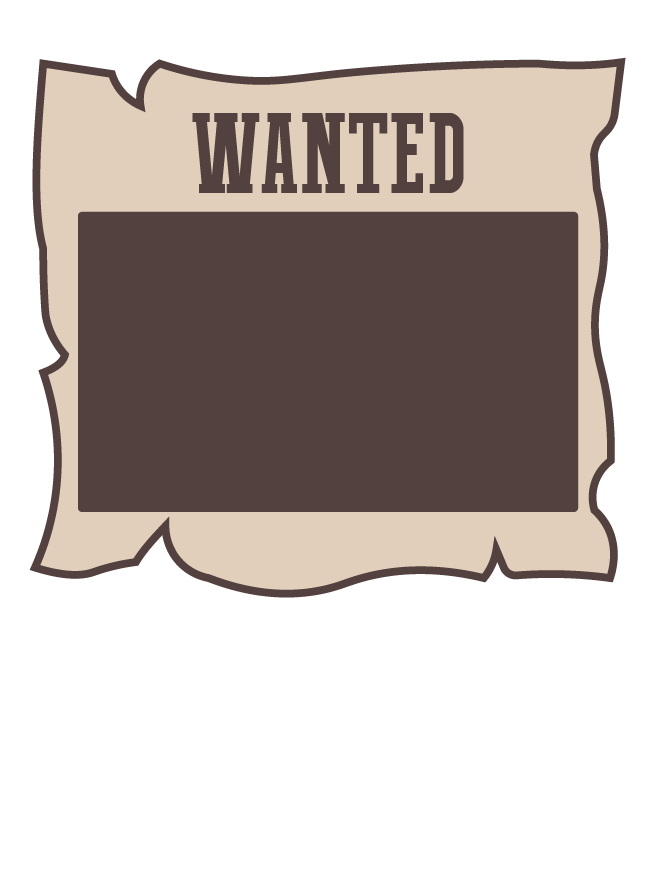
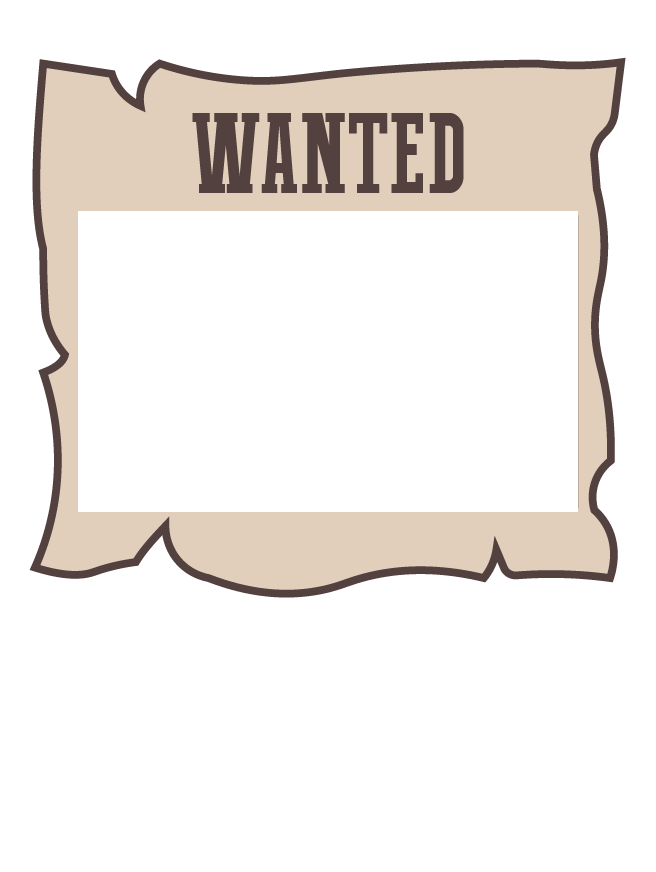
Cartell Sponsors
-Afegit el random dels cartells dels sponsors i els patrocinadors per a que vagin variant.
-Afegit un codi de proba sobre la variable d'entrada small per a la diferenciació de patrocinadors.

Changed region(s): [[0.122, 0.2167, 0.8841, 0.5883]]

diff --git a/src/components/hackeps/Sponsors/LogoSponsors.js b/src/components/hackeps/Sponsors/LogoSponsors.js
@@ -1,22 +1,41 @@
 import React from "react";
-//import wantedFrame2 from "src/assets/Cartell B.png";
 
-const LogoSponsors = ({ image, name }) => {
+const LogoSponsors = ({ image, name, small = false }) => {
+  const backgrounds = [
+    "bg-background-cartellA",
+    "bg-background-cartellB",
+    "bg-background-cartellC",
+    "bg-background-cartellD"
+  ];
+  
+  const randomBackground = backgrounds[Math.floor(Math.random() * backgrounds.length)];
+  
+  // Canvi de tamany depenent de si es sponsor o patro
+  let containerSize, contentSize, imageSize;
+  
+  if (small) {
+    containerSize = "w-32 h-28";
+    contentSize = "w-9/12 h-3/12 mt-4 px-1";
+    imageSize = "h-16";
+  } else {
+    containerSize = "w-52 h-48";
+    contentSize = "w-9/12 h-3/12 mt-8 px-2";
+    imageSize = "h-24";
+  }
+  
   return (
-    <div className="relative w-52 h-48 bg-background-cartellA bg-cover items-center justify-center content-center flex">   
+    <div className={`relative ${containerSize} ${randomBackground} bg-cover items-center justify-center content-center flex`}>   
       {/* Contingut centrat dins el marc marró */}
-      <div
-        className="w-9/12 h-3/12 flex flex-col items-center justify-center mt-8 px-2"
-      >
+      <div className={`${contentSize} flex flex-col items-center justify-center`}>
         <img
           src={image}
           alt={name}
-          className="w-full h-24 object-contain"
+          className={`w-full ${imageSize} object-contain`}
         />
       </div>
-        {/* <p className="text-xs font-bold text-[#4b2e16] text-center mt-2">
-          {name}
-        </p> */}
+      {/* <p className="text-xs font-bold text-[#4b2e16] text-center mt-2">
+        {name}
+      </p> */}
     </div>
   );
 };

diff --git a/tailwind.config.js b/tailwind.config.js
@@ -43,7 +43,10 @@ module.exports = {
       "background-hero": "url('/src/imgs/hackers_group.jpg')",
       "background-patron": "url('/src/imgs/patron_imagen.png')",
       "background-none": "url()",
-      "background-cartellA": "url('/src/assets/Cartell A.png')"
+      "background-cartellA": "url('/src/assets/Cartell A.png')",
+      "background-cartellB": "url('/src/assets/Cartell B.png')",
+      "background-cartellC": "url('/src/assets/Cartell C.png')",
+      "background-cartellD": "url('/src/assets/Cartell D.png')",
     },
   },
   plugins: [],
